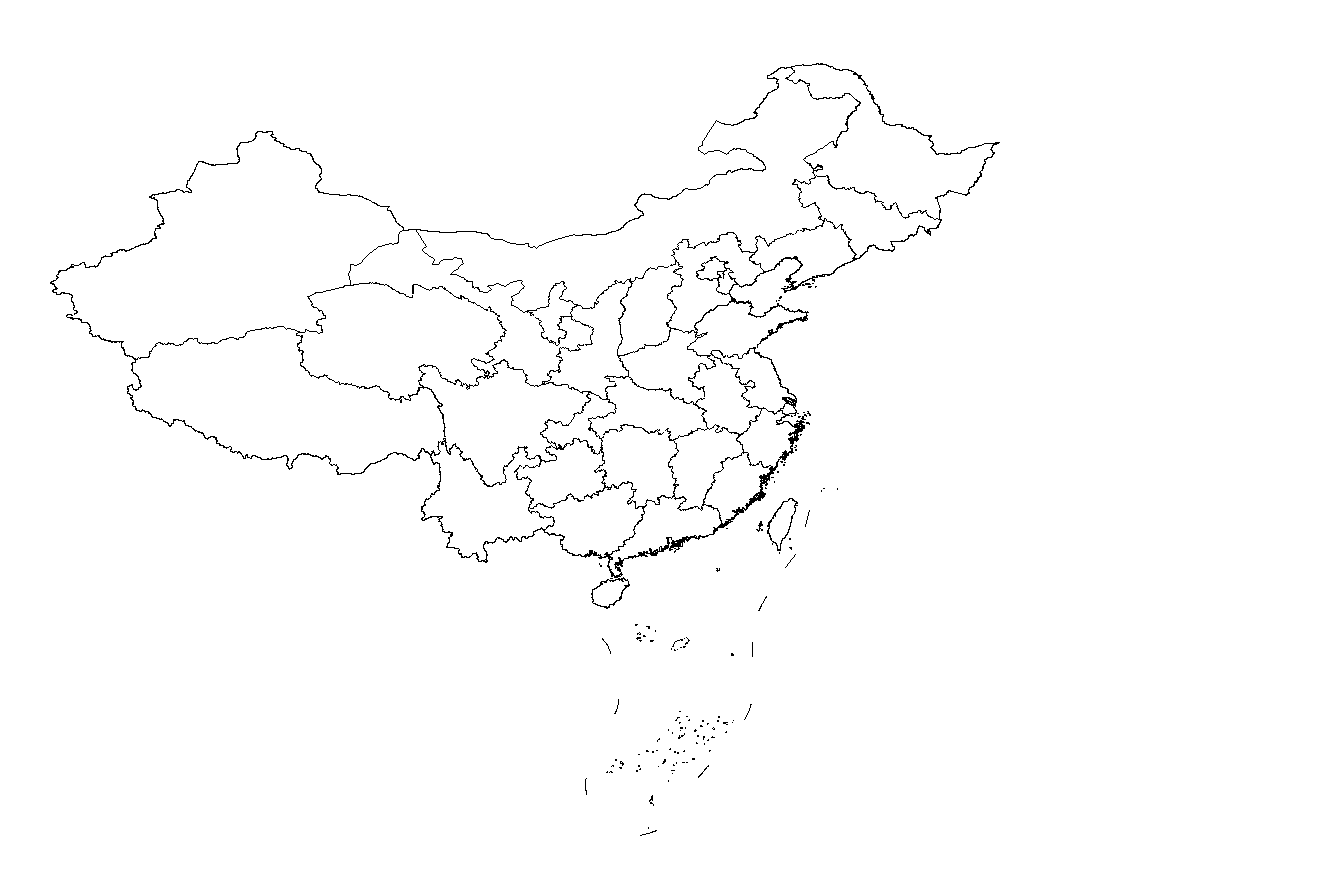
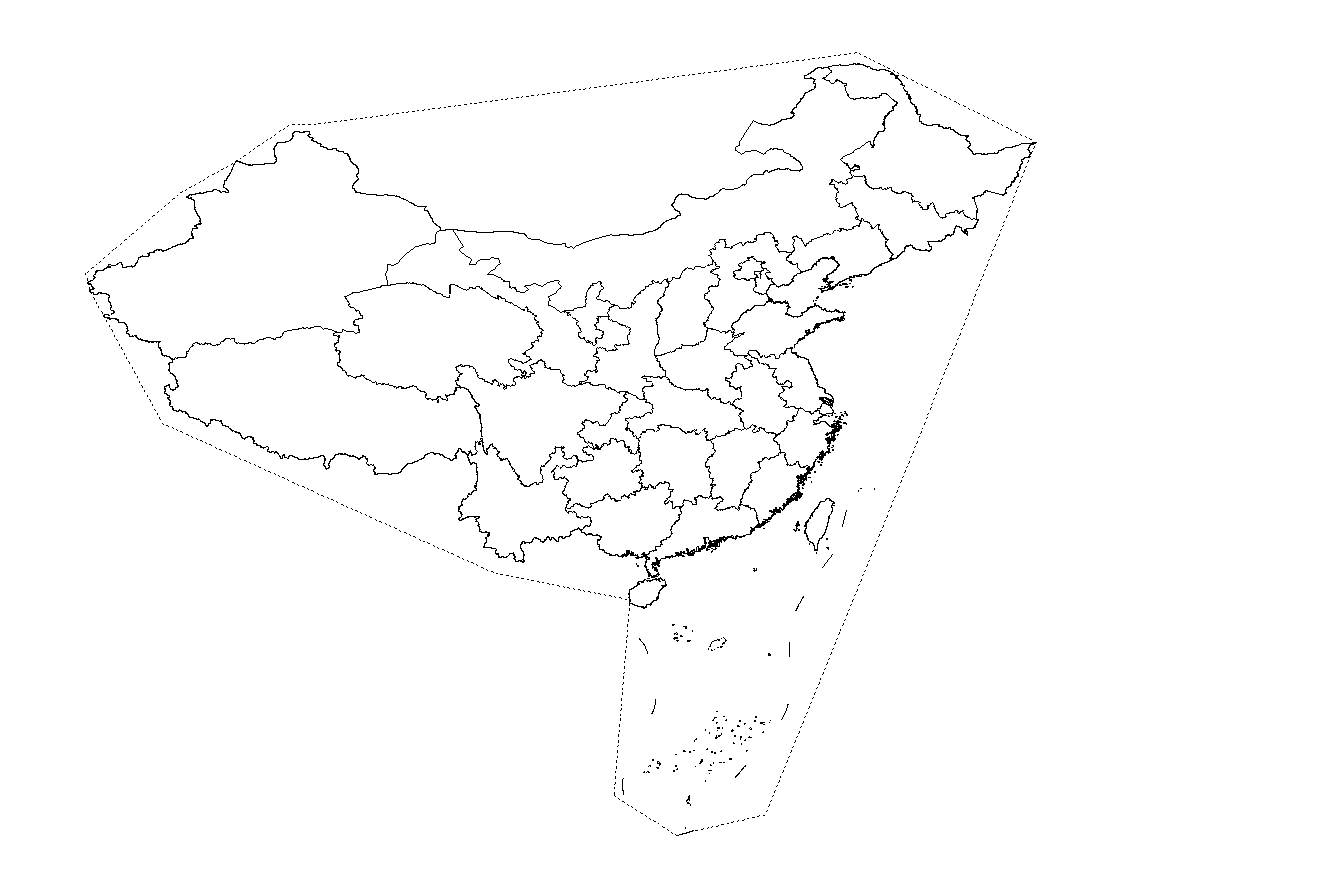
add article

diff --git a/_posts/2022-03-30-QGIS和Python生成中国区域Geohash网格.md b/_posts/2022-03-30-QGIS和Python生成中国区域Geohash网格.md
@@ -1,0 +1,46 @@
+---
+layout:     post
+title:      QGIS和Python生成中国区域Geohash网格
+subtitle:   
+date:       2022-03-30
+author:     WT
+header-img: img/post-bg-universe.jpg
+catalog: true
+tags:
+    - QGIS
+    - Python  
+    - Geohash 
+---
+
+### 步骤
+###  1 获取中国地图，利用QGIS绘制包含中国全境的简单多边形。
+ 
+![Tiles](http://www.spatial.pro/img/China.png)   
+
+### 2 安装Python库
+![Tiles](http://www.spatial.pro/img/Installpolygeohasher.png) 
+Installpolygeohasher.png
+### 3 按需求生成Geohash网格
+```python
+from polygeohasher import polygeohasher
+import geopandas as gpd
+import matplotlib.pyplot as plt
+%matplotlib inline
+gdf=gpd.read_file("/Users/tuo/Data/China_Geohash.geojson")
+
+#returns a dataframe with list of geohashes for each geometry
+df_3 = polygeohasher.create_geohash_list(gdf, 3,inner=False) 
+
+geo_df = polygeohasher.geohashes_to_geometry(df_3,"geohash_list") 
+geo_df.to_file("China_Geohash_3.geojson",driver = "GeoJSON") 
+```
+### 4 QGIS加载Geohash网格和中国边界线
+
+ 
+![China_geohash_3](http://www.spatial.pro/img/China_geohash_3.png)  
+
+
+
+### 引用  
+[Polygeohasher: an optimized way to create geohashes](https://www.geospatialworld.net/blogs/polygeohasher-an-optimized-way-to-create-geohashes/)   
+
